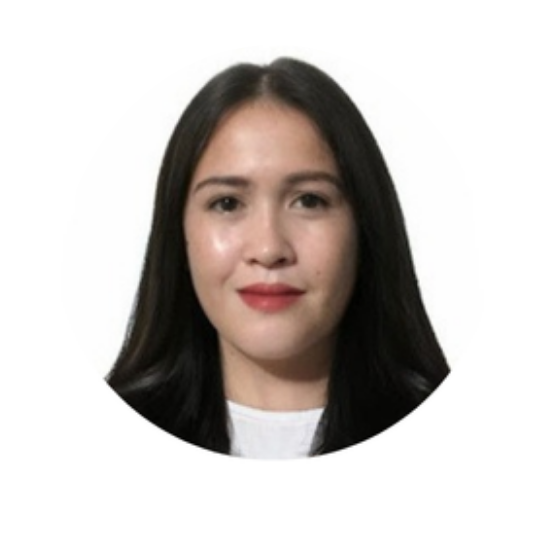
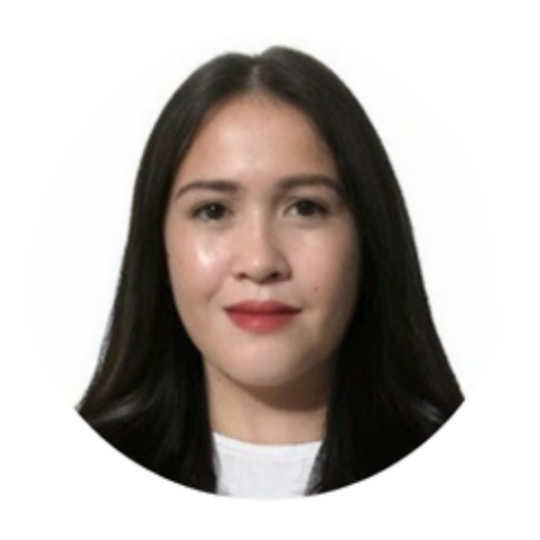
pics upgraded and some web features fixed

Changed region(s): [[0.1185, 0.0593, 0.8593, 0.9185], [0.6519, 0.1778, 0.8, 0.5926]]

diff --git a/src/components/Features/featuresData.tsx b/src/components/Features/featuresData.tsx
@@ -4,16 +4,6 @@ const featuresData: Feature[] = [
   {
     id: 1,
     icon: (
-      <svg fill="#FFFFFF" width="32" height="32" id="Layer_1" data-name="Layer 1" xmlns="http://www.w3.org/2000/svg" viewBox="0 0 64 64"><title>Artboard 17</title><path d="M58.17,11H26.92a4.83,4.83,0,0,0-4.83,4.83v.44H8.59a2.65,2.65,0,0,0-2.36,1.47L1.28,27.84A2.65,2.65,0,0,0,1,29V44.65a2,2,0,0,0,2,2H5.71a7.64,7.64,0,0,0,15.06,0h21a7.64,7.64,0,0,0,15.06,0h3.47A2.7,2.7,0,0,0,63,44V15.85A4.83,4.83,0,0,0,58.17,11ZM9.45,20.29H22.09v6.55H6.23ZM13.24,49a3.66,3.66,0,1,1,3.65-3.65A3.66,3.66,0,0,1,13.24,49Zm0-11.31a7.65,7.65,0,0,0-7.16,5H5V30.84H22.09V42.65H20.4A7.65,7.65,0,0,0,13.24,37.67ZM49.29,49a3.66,3.66,0,1,1,3.65-3.65A3.66,3.66,0,0,1,49.29,49ZM59,42.65H56.45a7.64,7.64,0,0,0-14.33,0h-16V15.85a.84.84,0,0,1,.83-.83H58.17a.84.84,0,0,1,.83.83Z"/></svg>
-    ),
-    title: "On-the-Go Courier Assistance",
-    paragraph: "Need a package delivered quickly and efficiently? Our experienced couriers are ready to pick up and deliver your items with care and speed.",
-    btn: "Learn More",
-    btnLink: "/#",
-  },
-  {
-    id: 2,
-    icon: (
       <svg fill="#FFFFFF" width="32" height="32" version="1.1" id="lni_lni-restaurant" xmlns="http://www.w3.org/2000/svg" x="0px"
 	 y="0px" viewBox="0 0 64 64">
 <g>
@@ -38,7 +28,7 @@ const featuresData: Feature[] = [
     btnLink: "/#",
   },
   {
-    id: 3,
+    id: 2,
     icon: (
       <svg fill="#FFFFFF" width="32" height="32" version="1.1" id="lni_lni-invention" xmlns="http://www.w3.org/2000/svg"  x="0px"
 	 y="0px" viewBox="0 0 64 64">
@@ -61,6 +51,16 @@ const featuresData: Feature[] = [
     ),
     title: "Beyond Food: We Deliver Solutions",
     paragraph: "Our delivery services extend beyond just food. We can handle a wide range of items, from documents to medical supplies, ensuring they reach their destination safely and on time.",
+    btn: "Learn More",
+    btnLink: "/#",
+  },
+  {
+    id: 3,
+    icon: (
+      <svg fill="#FFFFFF" width="32" height="32" id="Layer_1" data-name="Layer 1" xmlns="http://www.w3.org/2000/svg" viewBox="0 0 64 64"><title>Artboard 17</title><path d="M58.17,11H26.92a4.83,4.83,0,0,0-4.83,4.83v.44H8.59a2.65,2.65,0,0,0-2.36,1.47L1.28,27.84A2.65,2.65,0,0,0,1,29V44.65a2,2,0,0,0,2,2H5.71a7.64,7.64,0,0,0,15.06,0h21a7.64,7.64,0,0,0,15.06,0h3.47A2.7,2.7,0,0,0,63,44V15.85A4.83,4.83,0,0,0,58.17,11ZM9.45,20.29H22.09v6.55H6.23ZM13.24,49a3.66,3.66,0,1,1,3.65-3.65A3.66,3.66,0,0,1,13.24,49Zm0-11.31a7.65,7.65,0,0,0-7.16,5H5V30.84H22.09V42.65H20.4A7.65,7.65,0,0,0,13.24,37.67ZM49.29,49a3.66,3.66,0,1,1,3.65-3.65A3.66,3.66,0,0,1,49.29,49ZM59,42.65H56.45a7.64,7.64,0,0,0-14.33,0h-16V15.85a.84.84,0,0,1,.83-.83H58.17a.84.84,0,0,1,.83.83Z"/></svg>
+    ),
+    title: "On-the-Go Courier Assistance",
+    paragraph: "Need a package delivered quickly and efficiently? Our experienced couriers are ready to pick up and deliver your items with care and speed.",
     btn: "Learn More",
     btnLink: "/#",
   },

diff --git a/src/components/Faq/index.tsx b/src/components/Faq/index.tsx
@@ -21,7 +21,7 @@ const Faq = () => {
             />
             <SingleFaq
               question="How to download icons from LineIcons?"
-              answer="It takes 2-3 weeks to get your first blog post ready. That includes the in-depth research & creation of your monthly content marketing strategy that we do before writing your first blog post, Ipsum available ."
+              answer="It takes 2-3 weeks to get your first ready. That includes the in-depth research & creation of your monthly content marketing strategy that we do before writing your first blog post, Ipsum available ."
             />
             <SingleFaq
               question="Is GrayGrids part of UIdeck?"
